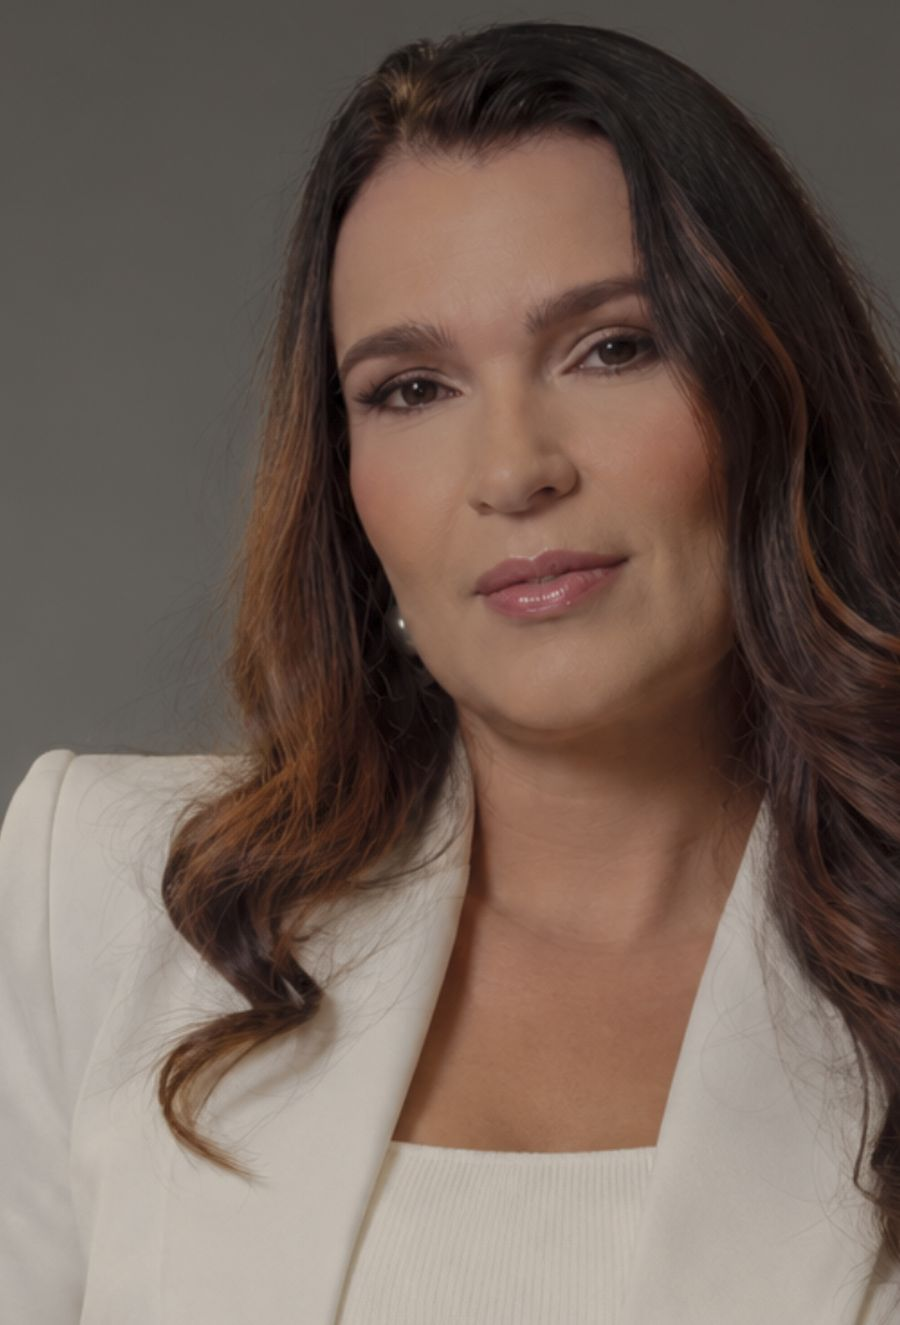
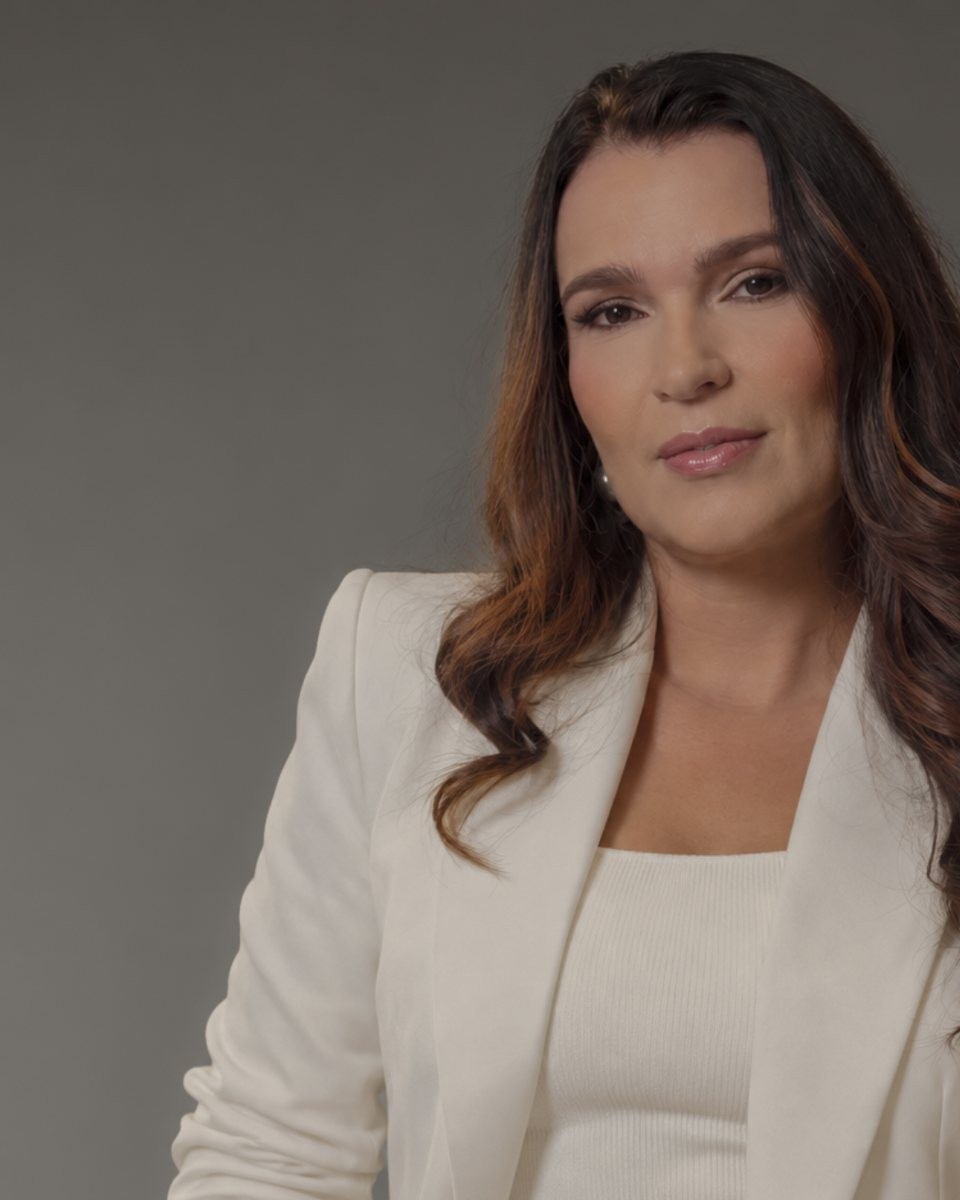
v1.2.2: mostra a foto da Jimena inteira, sem corte
O retrato usa o enquadramento original em qualquer tela. A moldura arredondada só arredonda os cantos do fundo.

diff --git a/estilo.css b/estilo.css
@@ -240,13 +240,14 @@ body.publico a.barra-cta:hover { background: var(--argila); }
 body.publico a:focus-visible, body.publico button:focus-visible { outline: 3px solid var(--argila); outline-offset: 2px; }
 
 body.publico .hero {
-  display: grid; grid-template-columns: minmax(200px, 260px) minmax(0, 1.05fr) minmax(300px, .95fr);
+  display: grid; grid-template-columns: minmax(240px, 360px) minmax(0, 1.05fr) minmax(280px, .9fr);
   gap: 32px; align-items: start; padding: 32px 0 8px;
 }
 body.publico .retrato { margin: 0; }
 body.publico .retrato img {
-  display: block; width: 100%; height: auto; aspect-ratio: 4 / 5; object-fit: cover; object-position: center 8%;
-  border-radius: 28px; background: var(--areia);
+  display: block; width: 100%; height: auto; max-width: 100%;
+  object-fit: contain;
+  border-radius: 20px; background: transparent;
   box-shadow: 0 18px 40px rgba(92, 64, 51, .14);
   border: 6px solid #fff; outline: 1px solid var(--areia);
 }
@@ -341,7 +342,7 @@ body.publico .rodape-site {
 body.publico .rodape-site a { color: var(--argila); font-weight: 700; }
 
 @media (max-width: 1040px) {
-  body.publico .hero { grid-template-columns: 220px minmax(0, 1fr); gap: 28px; }
+  body.publico .hero { grid-template-columns: minmax(240px, 320px) minmax(0, 1fr); gap: 28px; }
   body.publico .coluna-atendimento { grid-column: 1 / -1; padding-top: 0; }
 }
 @media (max-width: 860px) {
@@ -351,7 +352,7 @@ body.publico .rodape-site a { color: var(--argila); font-weight: 700; }
   body.publico main { padding-left: 16px; padding-right: 16px; }
   body.publico .barra-interna { padding-left: 16px; padding-right: 16px; }
   body.publico .hero { grid-template-columns: 1fr; gap: 22px; padding-top: 18px; }
-  body.publico .retrato img { aspect-ratio: 5 / 4; max-height: 380px; border-radius: 22px; border-width: 5px; object-position: center 12%; }
+  body.publico .retrato img { border-radius: 18px; border-width: 5px; }
   body.publico .grade-serv, body.publico .etapas { grid-template-columns: 1fr; }
   body.publico .secao { margin-top: 36px; }
 }

diff --git a/index.html b/index.html
@@ -9,7 +9,7 @@
 <link rel="preconnect" href="https://fonts.googleapis.com">
 <link rel="preconnect" href="https://fonts.gstatic.com" crossorigin>
 <link href="https://fonts.googleapis.com/css2?family=Fraunces:opsz,wght@9..144,500;9..144,600&family=Manrope:wght@400;500;600;700&display=swap" rel="stylesheet">
-<link rel="stylesheet" href="estilo.css?v=1.2.1">
+<link rel="stylesheet" href="estilo.css?v=1.2.2">
 </head>
 <body class="publico">
 
@@ -35,8 +35,8 @@
   <section class="hero">
     <figure class="retrato">
       <picture>
-        <source srcset="foto-profissional.webp" type="image/webp">
-        <img id="fotoProfissional" src="foto-profissional.jpg" width="900" height="1325" alt="Jimena Andrade">
+        <source srcset="foto-profissional.webp?v=1.2.2" type="image/webp">
+        <img id="fotoProfissional" src="foto-profissional.jpg?v=1.2.2" width="960" height="1200" alt="Jimena Andrade">
       </picture>
     </figure>
     <div class="hero-texto">
@@ -131,8 +131,8 @@
 </footer>
 
 <script src="https://cdn.jsdelivr.net/npm/@supabase/supabase-js@2"></script>
-<script src="config.js?v=1.2.1"></script>
-<script src="comum.js?v=1.2.1"></script>
+<script src="config.js?v=1.2.2"></script>
+<script src="comum.js?v=1.2.2"></script>
 <script>
 $("#sobre").textContent = C.sobre;
 if (C.clinica) $("#fotoProfissional").alt = "Foto de " + C.clinica;

diff --git a/assistente.html b/assistente.html
@@ -5,7 +5,7 @@
 <meta name="viewport" content="width=device-width, initial-scale=1, viewport-fit=cover">
 <meta name="theme-color" content="#2f6f6a">
 <title>Marcações — Jimena Andrade</title>
-<link rel="stylesheet" href="estilo.css?v=1.2.1">
+<link rel="stylesheet" href="estilo.css?v=1.2.2">
 </head>
 <body>
 <header class="topo">
@@ -79,9 +79,9 @@
 </main>
 
 <script src="https://cdn.jsdelivr.net/npm/@supabase/supabase-js@2"></script>
-<script src="config.js?v=1.2.1"></script>
-<script src="comum.js?v=1.2.1"></script>
-<script src="janela.js?v=1.2.1"></script>
+<script src="config.js?v=1.2.2"></script>
+<script src="comum.js?v=1.2.2"></script>
+<script src="janela.js?v=1.2.2"></script>
 <script>
 const estado = { paciente: null, novoNome: null, servicoId: null, dia: proximoDiaUtil(hojeISO()), hora: null, ocupados: [] };
 let agDia = hojeISO();

diff --git a/cliente.html b/cliente.html
@@ -8,7 +8,7 @@
 <link rel="preconnect" href="https://fonts.googleapis.com">
 <link rel="preconnect" href="https://fonts.gstatic.com" crossorigin>
 <link href="https://fonts.googleapis.com/css2?family=Fraunces:opsz,wght@9..144,500;9..144,600&family=Manrope:wght@400;500;600;700&display=swap" rel="stylesheet">
-<link rel="stylesheet" href="estilo.css?v=1.2.1">
+<link rel="stylesheet" href="estilo.css?v=1.2.2">
 </head>
 <body class="paciente">
 <header class="topo">
@@ -114,8 +114,8 @@
 </main>
 
 <script src="https://cdn.jsdelivr.net/npm/@supabase/supabase-js@2"></script>
-<script src="config.js?v=1.2.1"></script>
-<script src="comum.js?v=1.2.1"></script>
+<script src="config.js?v=1.2.2"></script>
+<script src="comum.js?v=1.2.2"></script>
 <script>
 const HORAS = C.antecedenciaRemarcarHoras;
 $$(".horasRegra").forEach((e) => (e.textContent = HORAS));

diff --git a/entrar.html b/entrar.html
@@ -5,7 +5,7 @@
 <meta name="viewport" content="width=device-width, initial-scale=1, viewport-fit=cover">
 <meta name="theme-color" content="#2f6f6a">
 <title>Entrar — Jimena Andrade</title>
-<link rel="stylesheet" href="estilo.css?v=1.2.1">
+<link rel="stylesheet" href="estilo.css?v=1.2.2">
 <style>
   .tela { min-height: 100vh; display: grid; place-items: center; padding: 20px; }
   .caixa { width: 100%; max-width: 380px; }
@@ -45,8 +45,8 @@
   </div>
 </div>
 <script src="https://cdn.jsdelivr.net/npm/@supabase/supabase-js@2"></script>
-<script src="config.js?v=1.2.1"></script>
-<script src="comum.js?v=1.2.1"></script>
+<script src="config.js?v=1.2.2"></script>
+<script src="comum.js?v=1.2.2"></script>
 <script>
 async function irPara() {
   const { data } = await sb.auth.getSession();

diff --git a/paciente.html b/paciente.html
@@ -5,7 +5,7 @@
 <meta name="viewport" content="width=device-width, initial-scale=1, viewport-fit=cover">
 <meta name="theme-color" content="#2f6f6a">
 <title>Pacientes — Jimena Andrade</title>
-<link rel="stylesheet" href="estilo.css?v=1.2.1">
+<link rel="stylesheet" href="estilo.css?v=1.2.2">
 </head>
 <body>
 <header class="topo">
@@ -53,9 +53,9 @@
 </main>
 
 <script src="https://cdn.jsdelivr.net/npm/@supabase/supabase-js@2"></script>
-<script src="config.js?v=1.2.1"></script>
-<script src="comum.js?v=1.2.1"></script>
-<script src="janela.js?v=1.2.1"></script>
+<script src="config.js?v=1.2.2"></script>
+<script src="comum.js?v=1.2.2"></script>
+<script src="janela.js?v=1.2.2"></script>
 <script>
 const id = new URLSearchParams(location.search).get("id");
 let filtro = "todos", tB;

diff --git a/agenda.html b/agenda.html
@@ -5,7 +5,7 @@
 <meta name="viewport" content="width=device-width, initial-scale=1, viewport-fit=cover">
 <meta name="theme-color" content="#2f6f6a">
 <title>Agenda — Jimena Andrade</title>
-<link rel="stylesheet" href="estilo.css?v=1.2.1">
+<link rel="stylesheet" href="estilo.css?v=1.2.2">
 </head>
 <body>
 <header class="topo">
@@ -42,9 +42,9 @@
 </main>
 
 <script src="https://cdn.jsdelivr.net/npm/@supabase/supabase-js@2"></script>
-<script src="config.js?v=1.2.1"></script>
-<script src="comum.js?v=1.2.1"></script>
-<script src="janela.js?v=1.2.1"></script>
+<script src="config.js?v=1.2.2"></script>
+<script src="comum.js?v=1.2.2"></script>
+<script src="janela.js?v=1.2.2"></script>
 <script>
 let dia = hojeISO();
 let destaque = new Set();

diff --git a/config.js b/config.js
@@ -1,6 +1,6 @@
 // Configurações da clínica — troque aqui sem mexer no resto do código.
 window.CONFIG = {
-  versao: "1.2.1",
+  versao: "1.2.2",
   clinica: "Jimena Andrade",
   subtitulo: "Harmonização Orofacial",
 
